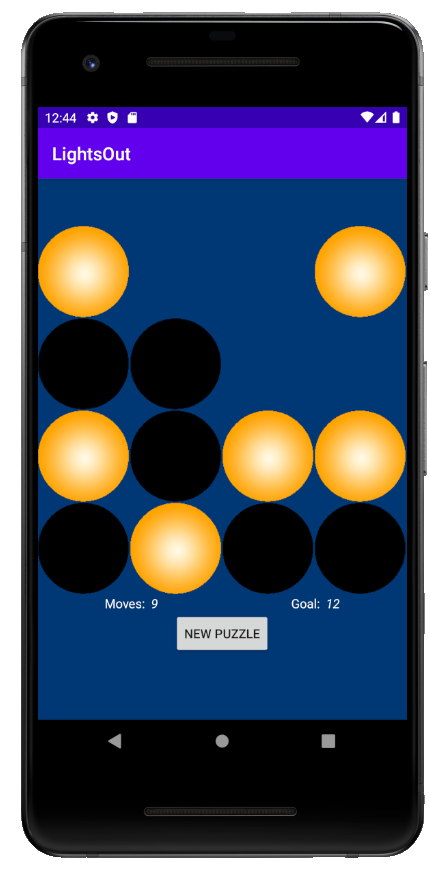
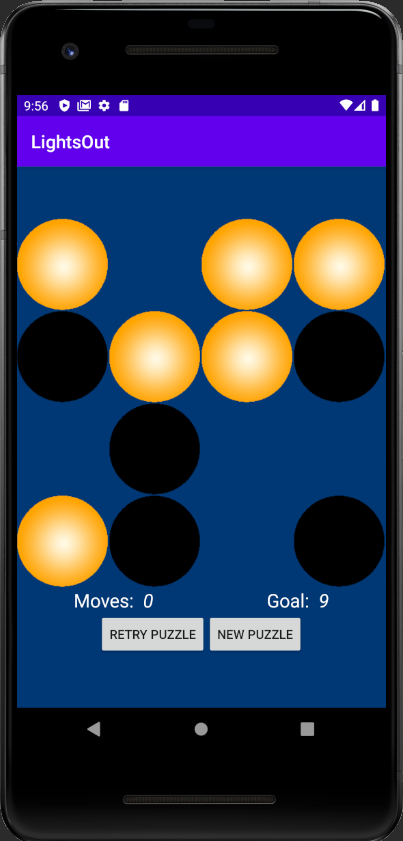
Updating READNE

diff --git a/README.md b/README.md
@@ -1,23 +1,14 @@
-# Lights Out! Mobile Game
+![Header](images/header.png)
 
-[![Foo](images/google-play-badge-small.png)](https://play.google.com/store/apps/details?id=app.game.lightsout)
-
-A mobile application based on the [classic puzzle](https://en.wikipedia.org/wiki/Lights_Out_(game)), along with a variety of new and challenging changes.
-
-## Screenshot
-
-The UI of the game, featuring both an easy and hard game underway: 
-
-![Image of Windows Form](images/Capture.PNG)
-![Image of Windows Form](images/Capture2.PNG)
-
-## Introduction
+An Android mobile game based on the [classic puzzle](https://en.wikipedia.org/wiki/Lights_Out_(game)), developed in Java using Android Studio.
 
 The goal of the game is deceptively simple: Turn off all the lights on the board. The challenging twist is that clicking one light will toggle the others, leaving you with a mess of lights. Sometimes there is only one possible solution (there is always at least one!).
 
-Cells on the board have three possible states: Inactive, which means they aren't a part of the game, Off, which means they've been off (this is good!), and On, which means they're on (this is bad!). The cells are all turned on, then the app deactivates some, then it randomly toggles them, so that there is a guaranteed solution.
+## Screenshot
 
-I originally made this game as part of an Intro to Computing class in Swing, along with an algorithm that could solve every single game, but now I've revisited it in Android Studio to make it better.
+The UI of the game, featuring an easy game underway. On the UI, there is a move counter, as well as an achievable goal for the user to meet. The user also has an option to reset the board to its starting position, or to create a new puzzle.
+
+![Image of Gameplay](images/Capture.PNG)
 
 ## Features
 
@@ -25,11 +16,11 @@ I originally made this game as part of an Intro to Computing class in Swing, alo
 
 * Keeps track of moves with a challenge number of moves to achieve.
 
-* Easy, Medium, and Hard difficulties, each with a different sized grid.
+* Easy, Medium, and Hard difficulties, each with a different sized grid, as well as a unique daily puzzle to challenge your friends..
 
-* Ability to create new puzzles as desired (either when giving up or finishing a puzzle)
+* Ability to create new puzzles as desired (either when giving up or finishing a puzzle) or reset a puzzle to try it again.
 
-* Determines when a game has been won and gives a congratulations.
+* Determines when a game has been won and gives congratulations.
 
 ## Play!
 
